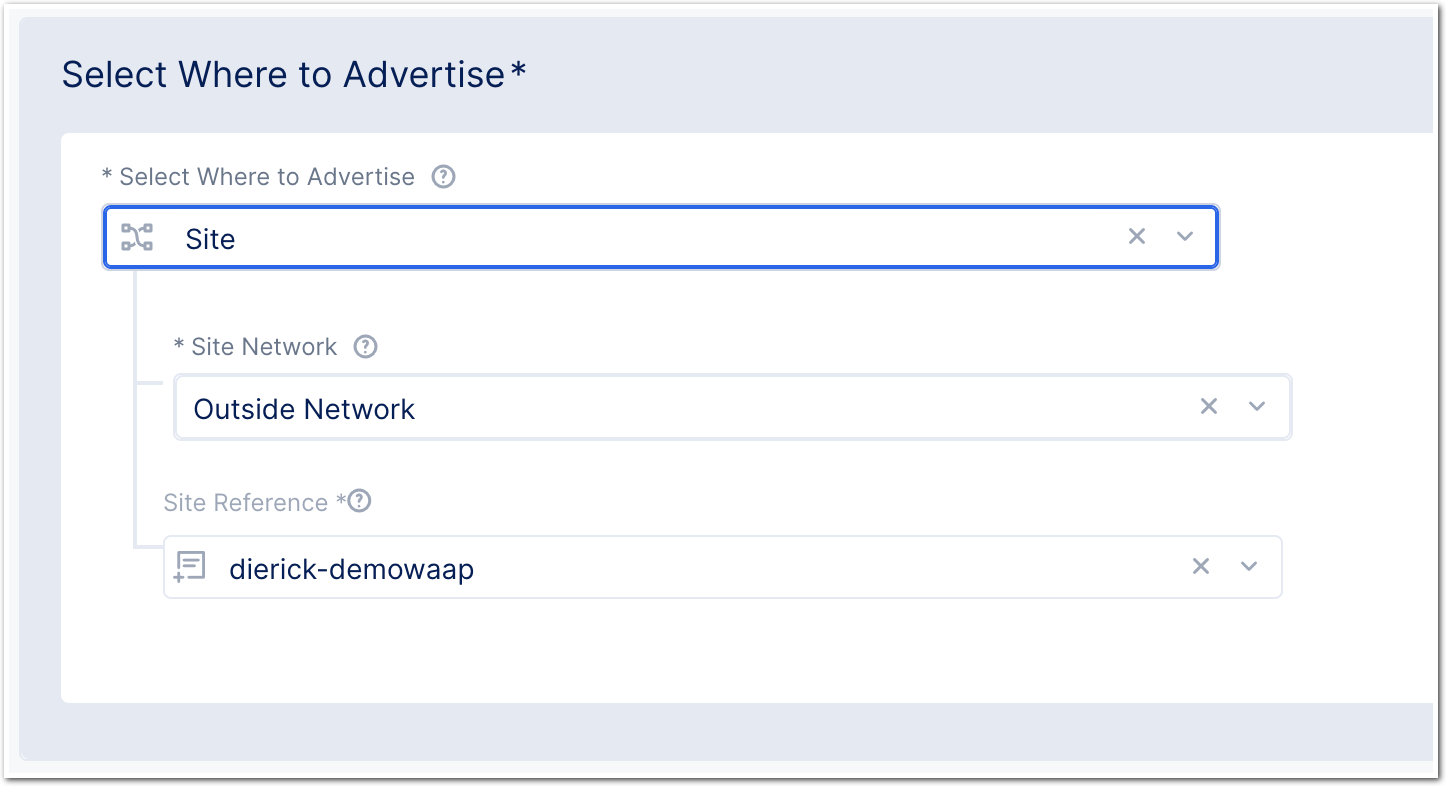
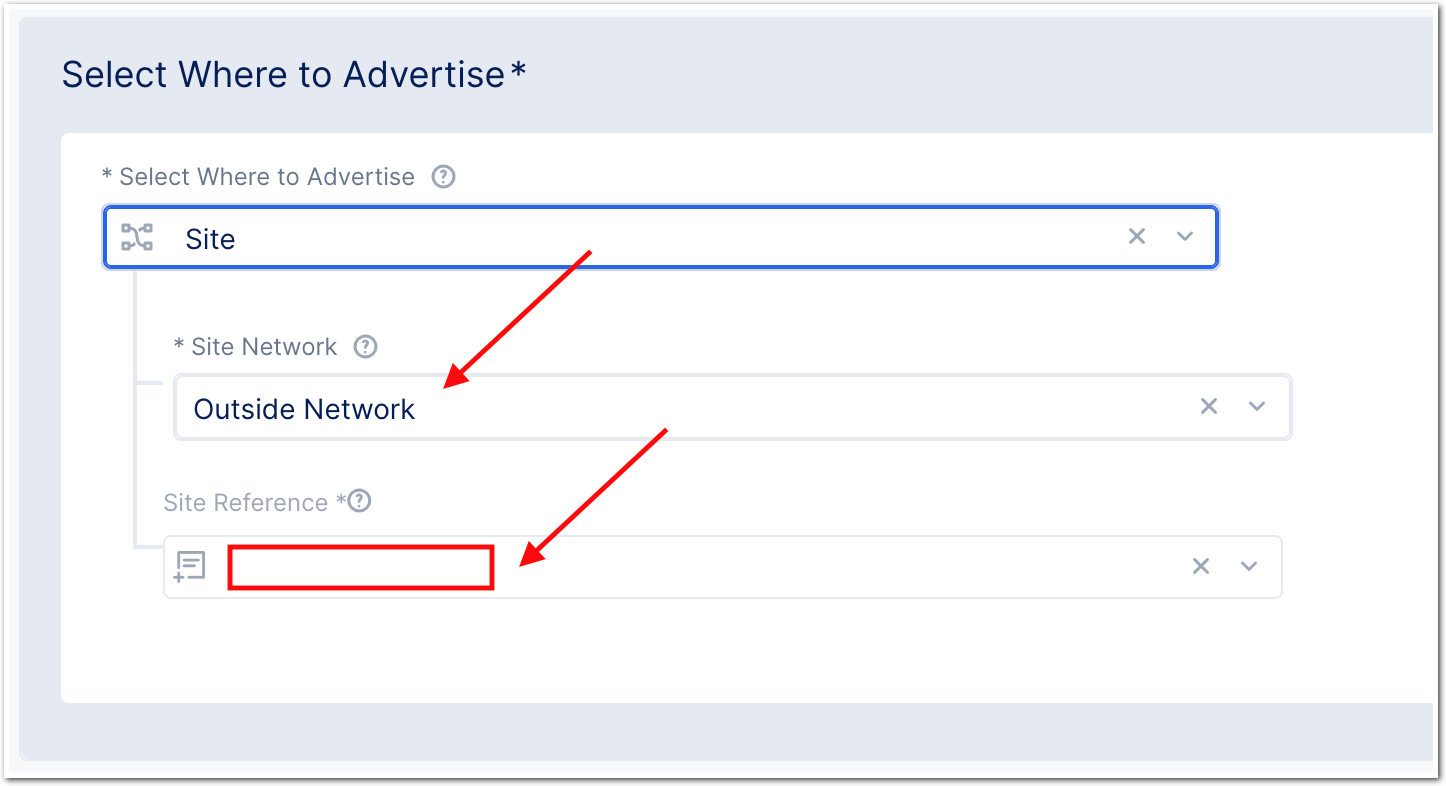
fix site name

diff --git a/docs/class1/module3/lab1/lab1.rst b/docs/class1/module3/lab1/lab1.rst
@@ -17,12 +17,24 @@ If you understand correctly this use case, we want the WAAP policy applied on a 
 * Create a new ``HTTP LB`` - NOT A HTTPS LB.
 * For the FQDN, use this convention ``arcadia-<se_name_or_student_id>-ceonly.fakefqdn.azure``
 * Select the Origin Pool used and created in the previous lab. The private Origin Pool.
-* Expose this LB on ``dierick-demowaap`` site
+* Expose this LB on the corresponding site (based on your tenant)
+
+    ==========================    ===============
+    Tenant                        Site name
+    ==========================    ===============
+    **EMEA-SE** tenant            demo-waap-emea
+                            
+    **F5-SALES-PUBLIC** tenant    emea-azure-waap
+
+    **F5-CHANNEL** tenant         azure-emea-waap
+
+    ==========================    ===============
+
 
   * In VIP Configuration, enable ``Show Advanced Fields``
   * Advertise Custom
   * Create a new custom config (show advanced fields)
-  * Select the ``dierick-demowaap`` site and expose on ``outside`` interface (the one exposed by the Azure LB)
+  * Select the ``site according above table`` and expose on ``outside`` interface (the one exposed by the Azure LB)
 
   .. image:: ../pictures/lab1/custom-vip.png
      :align: center
